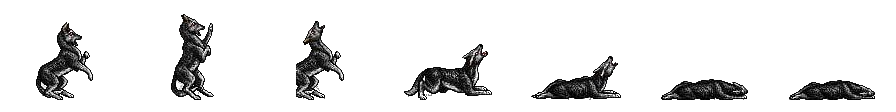
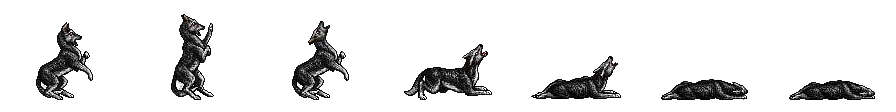
Fix cropped wolf death frames and remove obsolete attack draft

Changed region(s): [[0.3125, 0.1875, 0.4062, 0.9107]]

diff --git a/scripts/prepare-wolf-art.py b/scripts/prepare-wolf-art.py
@@ -36,11 +36,6 @@ ANIMATIONS = {
         # One enclosed background pocket between the crossed legs.
         "background_seeds": {2: [(300, 199)]},
     },
-    "attack": {
-        "rects": [(42, 312, 141, 403), (145, 312, 248, 403),
-                  (252, 307, 331, 403), (332, 312, 430, 403)],
-        "durations": [250, 120, 100, 220],
-    },
     "attack-up": {
         "rects": [(42, 312, 141, 403), (42, 222, 134, 312),
                   (137, 222, 218, 312), (219, 222, 316, 312)],
@@ -74,10 +69,17 @@ ANIMATIONS = {
         "state": "idle", "source_row": 6, "initial_source_row": 6, "game_repeat": -1,
     },
     "death": {
-        "rects": [(42, 474, 115, 560), (119, 470, 179, 560), (184, 472, 238, 560),
+        # The third pose extends to x=177; the old x=184 crop cut off its rump.
+        "rects": [(42, 474, 115, 562), (119, 470, 174, 562), (174, 472, 239, 562),
                   (239, 494, 334, 560), (335, 501, 435, 560), (438, 524, 535, 560),
                   (537, 524, 636, 560)],
         "durations": [100, 100, 120, 100, 100, 100, 1200],
+        "shadow_rects": [(42, 533, 115, 562), (119, 533, 174, 562), (174, 533, 239, 562),
+                         (239, 541, 334, 560), (335, 546, 435, 560), (438, 548, 535, 560),
+                         (537, 548, 636, 560)],
+        "background_columns": (660, 690),
+        "ground_y": 557,
+        "state": "death", "source_row": 7, "initial_source_row": 7,
     },
 }
 
@@ -217,6 +219,8 @@ def save_animation(source, name, settings):
         offset_y = 100 - (148 - rect[1]) if name == "run" else 100 - bounds[3]
         if name == "walk":
             offset_y = 100 - (219 - rect[1])
+        if "ground_y" in settings:
+            offset_y = 100 - (settings["ground_y"] - rect[1])
         if "source_anchors" in settings:
             anchor_x, anchor_y = settings["source_anchors"][index]
             offset_x, offset_y = 64 - (anchor_x - rect[0]), 100 - (anchor_y - rect[1])
@@ -301,6 +305,8 @@ if __name__ == "__main__":
                 "previewBackground": list(BACKGROUND), "integrated": False, "animations": {}}
     if args.only and (OUT / "animations.json").exists():
         metadata = json.loads((OUT / "animations.json").read_text())
+        metadata["animations"] = {name: entry for name, entry in metadata["animations"].items()
+                                  if name in ANIMATIONS}
     for name, settings in ANIMATIONS.items():
         if args.only and name != args.only:
             continue

diff --git a/docs/art/wolf-v1/README.md b/docs/art/wolf-v1/README.md
@@ -5,14 +5,13 @@
 - [Стояние — предпоследний, шестой ряд](wolf-idle.gif): 6 кадров по 200 мс, цикл 1,2 с. Небольшие исходные движения ушей, головы и пасти; корпус и лапы выровнены, чтобы фигура не смещалась из-за изменения силуэта головы.
 - [Атака вверх — четвёртый ряд](wolf-attack-up.gif): начальная стойка из пятого ряда, затем три кадра четвёртого ряда слева направо.
 - [Атака вниз — пятый ряд](wolf-attack-down.gif): начальная стойка и три последующих кадра пятого ряда слева направо.
-- [Первоначальный черновик броска](wolf-attack.gif) сохранён для сравнения; новые две GIF находятся по отдельным ссылкам выше.
-- [Смерть](wolf-death.gif): 7 кадров; последний удерживается 1,2 с, затем предпросмотр повторяется.
+- [Смерть — последний, седьмой ряд](wolf-death.gif): 7 кадров; падение занимает 620 мс, последний кадр удерживается 1,2 с, затем предпросмотр повторяется. Нарезка переделана из исходника: третий кадр включает всю заднюю часть тела, которую обрезала прежняя рамка.
 
 Все GIF увеличены ×3 без сглаживания и показываются на однотонном лесном фоне. Темп выбран для первого просмотра: JPEG не содержит исходных длительностей кадров. GIF зациклены для сравнения; в игре бег обычно повторяется, атака и смерть проигрываются один раз, после смерти сохраняется последний кадр.
 
 У обеих новых атак по четыре кадра: **240/100/100/220 мс**, всего **660 мс**. Первый кадр и его тень одинаковы в обеих последовательностях. Пауза в начальной стойке помогает увидеть начало движения; GIF повторяются только для просмотра.
 
-Для будущего подключения подготовлены прозрачные PNG-листы с общей сеткой **128×112** и опорой (64, 100): [бег](wolf-run.png), [ходьба](wolf-walk.png), [атака](wolf-attack.png), [смерть](wolf-death.png). У бега и ходьбы сохранена общая линия земли каждого исходного ряда, поэтому вертикальные движения тела не выравниваются искусственно. Координаты вырезок, положения кадров и длительности находятся в [animations.json](animations.json).
+Для будущего подключения подготовлены прозрачные PNG-листы с общей сеткой **128×112** и опорой (64, 100): [бег](wolf-run.png), [ходьба](wolf-walk.png), [стояние](wolf-idle.png), [атака вверх](wolf-attack-up.png), [атака вниз](wolf-attack-down.png), [смерть](wolf-death.png). У бега, ходьбы и смерти сохранена общая линия земли каждого исходного ряда, поэтому вертикальные движения тела не выравниваются искусственно. Координаты вырезок, положения кадров и длительности находятся в [animations.json](animations.json).
 
 У бега слюна входит в PNG самого волка; отдельные тёмные капли под пастью сохранены независимо от их связи с силуэтом. [Тень бега](wolf-run-shadow.png) вынесена в отдельный слой той же сетки. Её форма взята из исходника, полупрозрачность восстановлена по затемнению шахматного фона. Чистый фон справа от волка даёт образец той же фазы шахматки; случайные изолированные JPEG-пятна отбрасываются. Это восстановленная тень из JPEG, не исходный альфа-канал художника. GIF показывает оба слоя вместе.
 
@@ -21,6 +20,8 @@
 У стояния подготовлены [прозрачный PNG-лист](wolf-idle.png) и [отдельный слой тени](wolf-idle-shadow.png), оба с сеткой 128×112. Кадры выровнены по неподвижной части корпуса и лапам, а не по меняющейся ширине общего силуэта; опорные координаты исходника сохранены в `sourceAnchor` каждого кадра в `animations.json`. Цвета рисунка сохранены из JPEG, тень восстановлена тем же способом по свободным полосам справа. В будущей игре стояние должно повторяться циклически (`gameRepeat: -1`); сейчас это только отдельный предпросмотр.
 
 Для новых атак подготовлены прозрачные листы [четвёртого ряда](wolf-attack-up.png) и [пятого ряда](wolf-attack-down.png), а также отдельные слои теней [четвёртого](wolf-attack-up-shadow.png) и [пятого](wolf-attack-down-shadow.png) ряда. Сетка та же — 128×112. Тени восстановлены из исходника по свободным полосам справа; при отделении фона учтено затемнение шахматки под лапами. Отдельные капли возле пасти сохранены. Строки исходника для каждого кадра указаны в `animations.json`, включая общую начальную стойку из пятого ряда.
+
+У смерти есть отдельный [слой исходной тени](wolf-death-shadow.png). Весь ряд привязан к общей линии земли исходника `y=557`; светлая шерсть внутри силуэта сохранена, цвета оставшихся непрозрачных пикселей совпадают с JPEG. Последний кадр предназначен для сохранения в игре после однократного проигрывания (`gameRepeat: 0`). GIF зациклена только для просмотра. Старые `wolf-attack.gif` / `wolf-attack.png` удалены: актуальны две утверждённые направленные атаки. Прежняя нарезка смерти заменена этой версией; остальные утверждённые анимации сохранены без изменений.
 
 Для движения вправо и влево в игре достаточно одного набора кадров: исходник смотрит вправо, для бега влево применяется `flipX`. Тень отражается вместе с волком. Отдельную зеркальную GIF хранить не требуется. Это работает для боковых направлений; вид спереди или сзади потребует собственных рисунков, если такие ракурсы понадобятся.
 
@@ -31,3 +32,5 @@
 Новые атаки можно пересобрать отдельно: `python scripts/prepare-wolf-art.py --only attack-up` и `python scripts/prepare-wolf-art.py --only attack-down`.
 
 Стояние пересобирается отдельно: `python scripts/prepare-wolf-art.py --only idle`. Прочие утверждённые PNG/GIF при этом не изменяются.
+
+Смерть пересобирается отдельно: `python scripts/prepare-wolf-art.py --only death`.
